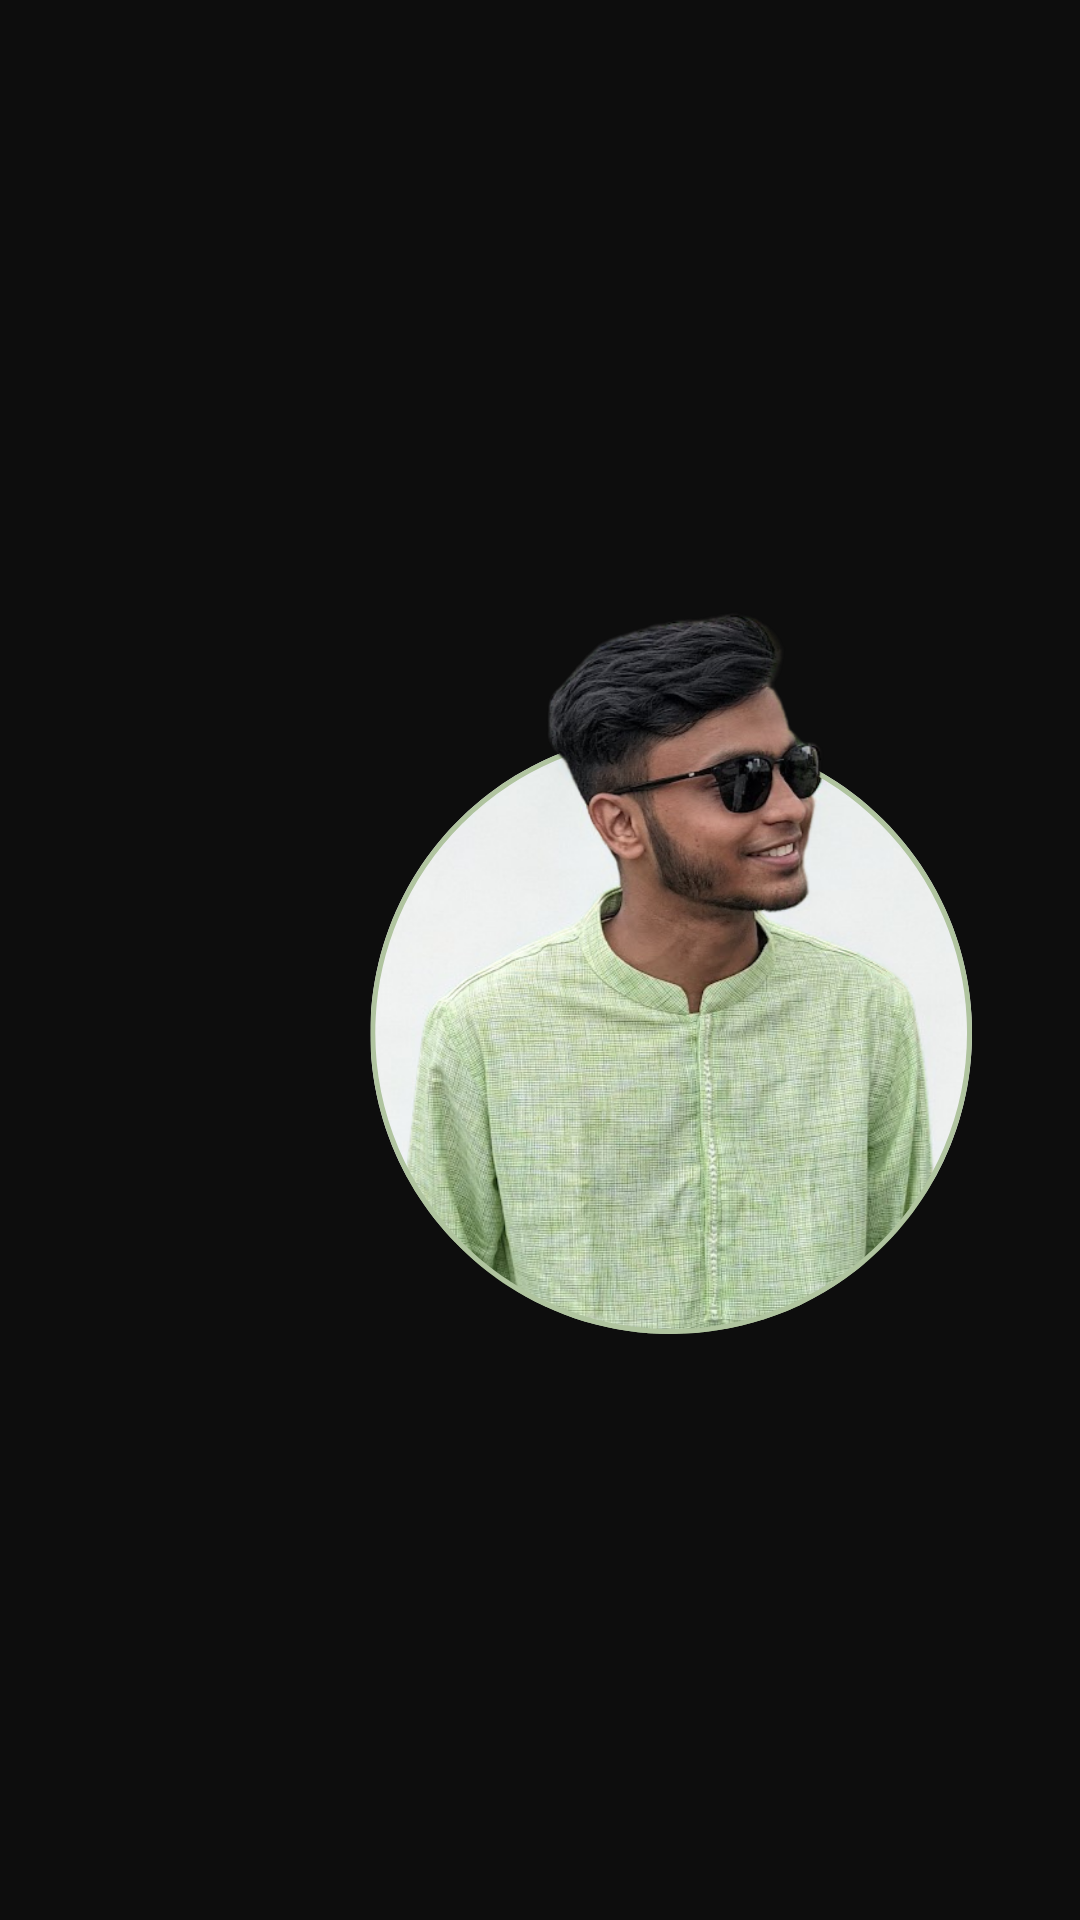
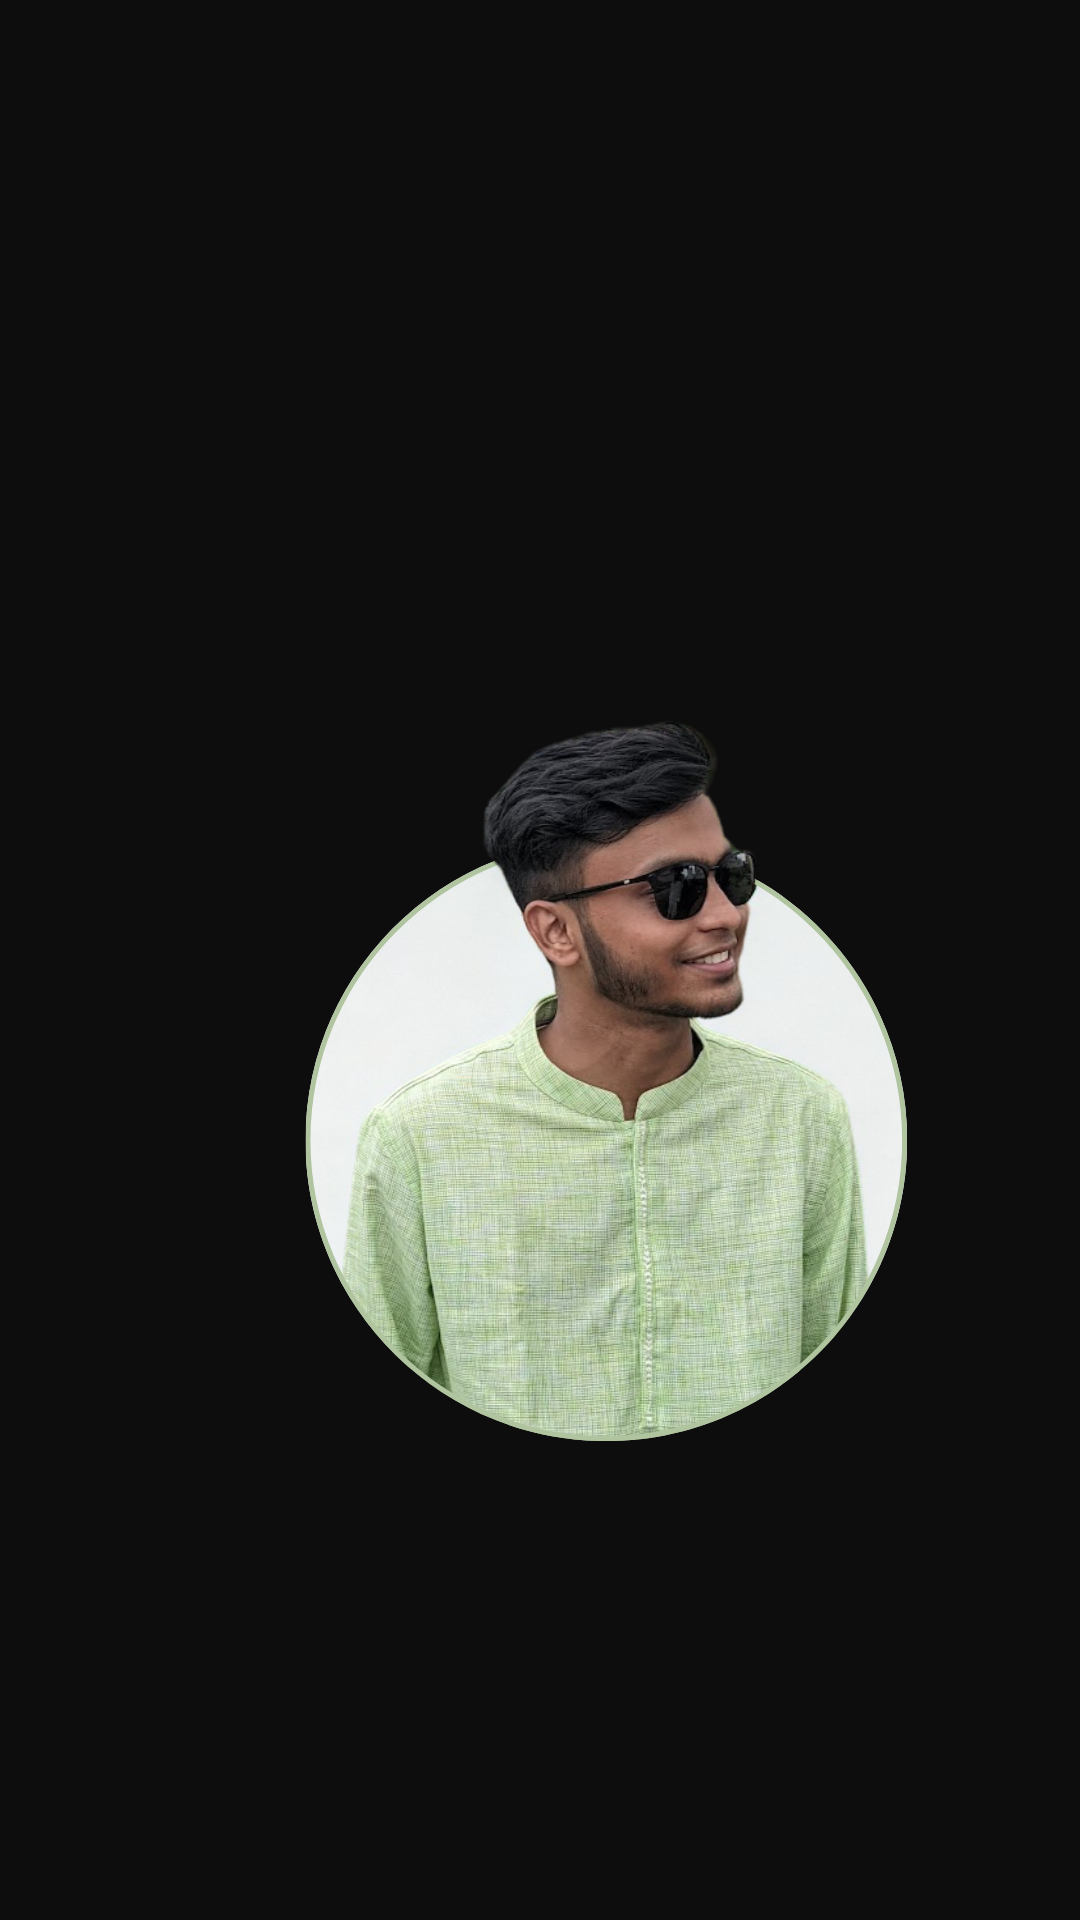
Worked on responsiveness and styling

Changed region(s): [[0.275, 0.3125, 0.9167, 0.75]]

diff --git a/styles.css b/styles.css
@@ -35,13 +35,13 @@ nav {
 }
 
 .logo {
-    width: 140px;
+    width: 15%;
 }
 
 nav ul li {
     display: inline-block;
     list-style: none;
-    margin: 10px 20px;
+    margin: 40px 20px;
 }
 
 nav ul li a {
@@ -81,9 +81,10 @@ nav ul li a:hover::after {
     letter-spacing: .1rem;
 }
 
-.header-text h1 span {
+.header-text p span {
     color: #00ff00c0;
     letter-spacing: .1rem;
+    font-size: 40px;
 }
 
 
@@ -403,18 +404,24 @@ nav .fa-solid {
         background-image: url(images/phone-background.png);
     }
     .header-text {
-        margin-top: 100%;
+        margin-top: 40%;
         font-size: 16px;
     }
     .header-text h1 {
         font-size: 30px;
+        margin-top: 420px;
     }
+
+    nav .logo {
+        width: 90%;
+    }
+
     nav .fa-solid {
         display: block;
         font-size: 25px;
     }
     nav ul{
-        background: #ff004f;
+        background: #008300;
         position: fixed;
         top: 0;
         right: -200px;
@@ -428,6 +435,14 @@ nav .fa-solid {
         display: block;
         margin: 25px;
     }
+
+    nav ul li a {
+        font-size: 20px;
+        font-weight: 400;
+        letter-spacing: .1rem;
+        color:#fff;
+    }
+
     nav ul .fa-solid {
         position: absolute;
         top: 25px;

diff --git a/index.html b/index.html
@@ -15,7 +15,7 @@
     <div id="header">
         <div id="container">
             <nav>
-                <img src="images/logo.png" alt="Logo" id="logo">
+                <img class="logo" src="images/logo.png" alt="Logo" id="logo">
                 <ul id="sidemenu">
                     <li><a href="#home">Home</a></li>
                     <li><a href="#about">About</a></li>
@@ -27,8 +27,9 @@
                 <i class="fa-solid fa-bars" onclick="openmenu()"></i>
             </nav>
             <div class="header-text">
-                <p>Web Developer & Designer</p>
-                <h1>Hi I am <span>Shimanto Shahriar</span><br> from Bangladesh</h1>
+                <p>Hi I am<br> <span>Shimanto Shahriar</span><br> from Bangladesh</p>
+                <h1>Web Developer <br>& Designer</h1>
+                
             </div>
         </div>
     </div>
